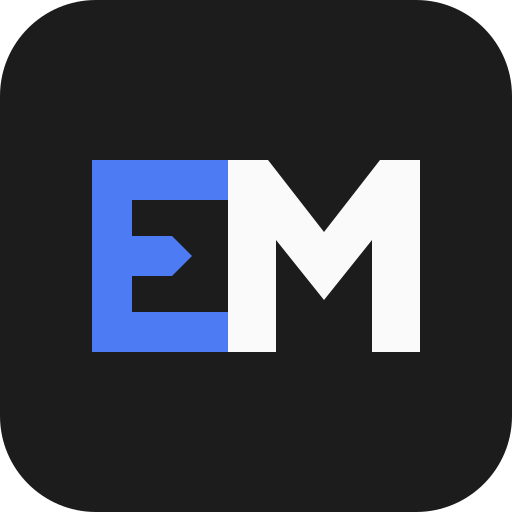
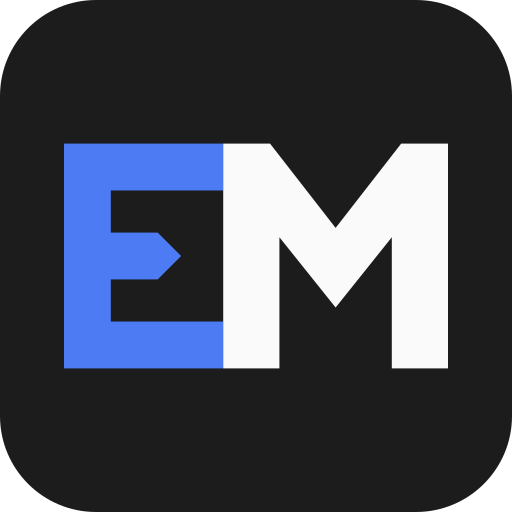
Updates

Changed region(s): [[0.125, 0.2812, 0.75, 0.7188], [0.625, 0.2812, 0.875, 0.7188], [0.5938, 0.5312, 0.625, 0.5625]]

diff --git a/sw.js b/sw.js
@@ -1,1 +1,1 @@
-if(!self.define){let s,l={};const e=(e,i)=>(e=new URL(e+".js",i).href,l[e]||new Promise(l=>{if("document"in self){const s=document.createElement("script");s.src=e,s.onload=l,document.head.appendChild(s)}else s=e,importScripts(e),l()}).then(()=>{let s=l[e];if(!s)throw new Error(`Module ${e} didn’t register its module`);return s}));self.define=(i,r)=>{const n=s||("document"in self?document.currentScript.src:"")||location.href;if(l[n])return;let u={};const a=s=>e(s,n),t={module:{uri:n},exports:u,require:a};l[n]=Promise.all(i.map(s=>t[s]||a(s))).then(s=>(r(...s),u))}}define(["./workbox-2fbc6a65"],function(s){"use strict";self.addEventListener("message",s=>{s.data&&"SKIP_WAITING"===s.data.type&&self.skipWaiting()}),s.precacheAndRoute([{url:"welcome-banner.svg",revision:"e8af19e420920785ca49a0bf12828d9c"},{url:"manifest.webmanifest",revision:"ae91c14e9a672d1c1ce731e27318a75d"},{url:"index.html",revision:"fe628d238c3b72b46a86ef1d76868b95"},{url:"icon.svg",revision:"1f7c5761c70ef41ba926eafd933dd263"},{url:"icon-maskable-512.png",revision:"8913e5d5832c7545642b70902ebd36fd"},{url:"icon-512.png",revision:"cf0ef717280282589ce40c45d40b8f30"},{url:"icon-192.png",revision:"9acb9654eef45558c0e6ec9d9a9a011f"},{url:"apple-touch-icon.png",revision:"ac8b49fa416d4f017ebefe40c910c71e"},{url:"assets/z80-Co3PbHdE.js",revision:null},{url:"assets/yacas-CXXgtw0p.js",revision:null},{url:"assets/xquery-BKJx4mf9.js",revision:null},{url:"assets/workbox-window.prod.es5-Bd17z0YL.js",revision:null},{url:"assets/webidl-D5jiJvOU.js",revision:null},{url:"assets/virtual_solid-ssr-entry-client-BmAWYxfp.js",revision:null},{url:"assets/virtual_solid-ssr-entry-client-BiwvVpO6.css",revision:null},{url:"assets/vhdl-kS471soi.js",revision:null},{url:"assets/verilog-CjI9Y6RI.js",revision:null},{url:"assets/velocity-CqftRsjg.js",revision:null},{url:"assets/vbscript-D9f6rSsU.js",revision:null},{url:"assets/vb-BthdM_4N.js",revision:null},{url:"assets/turtle-Cx3rYX2g.js",revision:null},{url:"assets/ttcn-cfg-2b4Gb5sE.js",revision:null},{url:"assets/ttcn-PPSTk1ow.js",revision:null},{url:"assets/troff-C2dAgh7P.js",revision:null},{url:"assets/toml-BPTmHmyx.js",revision:null},{url:"assets/tiki-AK6FwT8q.js",revision:null},{url:"assets/tiddlywiki-VlUiK86J.js",revision:null},{url:"assets/textile-C4jVoHG1.js",revision:null},{url:"assets/tcl-BGfruO1u.js",revision:null},{url:"assets/swift-DKB6_1j6.js",revision:null},{url:"assets/stylus-BOVgKnng.js",revision:null},{url:"assets/stex-DNzd62Q_.js",revision:null},{url:"assets/sql-DuQMFDvy.js",revision:null},{url:"assets/spreadsheet-CTIncYxj.js",revision:null},{url:"assets/sparql-Dz-mlCAC.js",revision:null},{url:"assets/solr-B78wSQJQ.js",revision:null},{url:"assets/smalltalk-BLp5-jwC.js",revision:null},{url:"assets/simple-mode-DXiLM1-G.js",revision:null},{url:"assets/sieve-tLWDfEkZ.js",revision:null},{url:"assets/shell-DwuoZtxw.js",revision:null},{url:"assets/scheme-D9qYN0V5.js",revision:null},{url:"assets/sas-C2OyD2Y6.js",revision:null},{url:"assets/ruby-ChfNwlCY.js",revision:null},{url:"assets/rpm-gpDK5sbt.js",revision:null},{url:"assets/r-CxDmU1I4.js",revision:null},{url:"assets/q-B9NhS7L_.js",revision:null},{url:"assets/python-B_1Jd8HM.js",revision:null},{url:"assets/puppet-BZyAS7I4.js",revision:null},{url:"assets/pug-3K-JMW4g.js",revision:null},{url:"assets/protobuf-D1ij_kNL.js",revision:null},{url:"assets/properties-C357ku5U.js",revision:null},{url:"assets/powershell-BcIto6Sf.js",revision:null},{url:"assets/pig-AF4Hwhju.js",revision:null},{url:"assets/perl-BkSkiI9m.js",revision:null},{url:"assets/pascal-Dp_KdFgX.js",revision:null},{url:"assets/oz-BwTct_5T.js",revision:null},{url:"assets/octave-D2Q8cUp1.js",revision:null},{url:"assets/ntriples-B9h1VB_g.js",revision:null},{url:"assets/nsis-viPvXFiq.js",revision:null},{url:"assets/nginx-8H7HVH4w.js",revision:null},{url:"assets/mumps-BSzj6Xyz.js",revision:null},{url:"assets/mscgen-qgSLujhx.js",revision:null},{url:"assets/modelica-CqHI_q-D.js",revision:null},{url:"assets/mllike-B45xgp2S.js",revision:null},{url:"assets/mirc-C9zpzAZU.js",revision:null},{url:"assets/mbox-BEMVcqjs.js",revision:null},{url:"assets/mathematica-u8YMmbU0.js",revision:null},{url:"assets/lua-DPCEkfD_.js",revision:null},{url:"assets/livescript-BXxG0Yva.js",revision:null},{url:"assets/julia-CQfgDRfP.js",revision:null},{url:"assets/javascript-Bu8mWwtz.js",revision:null},{url:"assets/idl-BUZw3wgd.js",revision:null},{url:"assets/http-CLVgA2GD.js",revision:null},{url:"assets/haxe-DjVOVvNP.js",revision:null},{url:"assets/haskell-BRsoo5mP.js",revision:null},{url:"assets/groovy-CUpZ7dEl.js",revision:null},{url:"assets/gherkin-oBAE_ms0.js",revision:null},{url:"assets/gas-BHEdbvp9.js",revision:null},{url:"assets/fortran-Bt6PBEDR.js",revision:null},{url:"assets/forth-D6RzAl64.js",revision:null},{url:"assets/fcl-ClOhbFR7.js",revision:null},{url:"assets/factor-LKH5gN8L.js",revision:null},{url:"assets/erlang-BV0c4Hdn.js",revision:null},{url:"assets/elm-Cshzl8qu.js",revision:null},{url:"assets/eiffel-BEjRio4Q.js",revision:null},{url:"assets/ecl-BVIeWmwY.js",revision:null},{url:"assets/ebnf-D4c0_ac3.js",revision:null},{url:"assets/dylan-BCDoL_-p.js",revision:null},{url:"assets/dtd-DTF72YNO.js",revision:null},{url:"assets/dockerfile-DJkHQgkl.js",revision:null},{url:"assets/dist-zKLIkN7d.js",revision:null},{url:"assets/dist-qaT8ltmQ.js",revision:null},{url:"assets/dist-_yzJIzyp.js",revision:null},{url:"assets/dist-ZPdj95JP.js",revision:null},{url:"assets/dist-DzGbq54L.js",revision:null},{url:"assets/dist-DmC6qqHp.js",revision:null},{url:"assets/dist-DRiSZTbN.js",revision:null},{url:"assets/dist-D2xgha65.js",revision:null},{url:"assets/dist-CQ_FFQ__.js",revision:null},{url:"assets/dist-C7F0Hlmq.js",revision:null},{url:"assets/dist-C2hHbbbk.js",revision:null},{url:"assets/dist-BwOyilns.js",revision:null},{url:"assets/dist-Bi7bU9sV.js",revision:null},{url:"assets/dist-BSJOcAtr.js",revision:null},{url:"assets/dist-BI58-Qvh.js",revision:null},{url:"assets/dist-BDGBjP3P.js",revision:null},{url:"assets/dist-B7GufSPF.js",revision:null},{url:"assets/diff-ChtP43wD.js",revision:null},{url:"assets/d-DWkQyNnU.js",revision:null},{url:"assets/cypher-p9eYesGn.js",revision:null},{url:"assets/css-CnaYoQib.js",revision:null},{url:"assets/crystal-Bsdphhtm.js",revision:null},{url:"assets/commonlisp-DgAKBe0r.js",revision:null},{url:"assets/coffeescript-De_zI4J0.js",revision:null},{url:"assets/cobol-DHLQUbN7.js",revision:null},{url:"assets/cmake-84nbDH0I.js",revision:null},{url:"assets/clojure-BflJGmDX.js",revision:null},{url:"assets/clike-D_6L3tnO.js",revision:null},{url:"assets/brainfuck-D5EjA2JK.js",revision:null},{url:"assets/asterisk-BEn0Cwpx.js",revision:null},{url:"assets/asn1-DCl_8MCW.js",revision:null},{url:"assets/asciiarmor-C_eisQCp.js",revision:null},{url:"assets/apl-gfMMiTNf.js",revision:null},{url:"assets/KaTeX_Typewriter-Regular-CO6r4hn1.woff2",revision:null},{url:"assets/KaTeX_Size4-Regular-Dl5lxZxV.woff2",revision:null},{url:"assets/KaTeX_Size3-Regular-gV2CO0n9.woff2",revision:null},{url:"assets/KaTeX_Size2-Regular-Dy4dx90m.woff2",revision:null},{url:"assets/KaTeX_Size1-Regular-mCD8mA8B.woff2",revision:null},{url:"assets/KaTeX_Script-Regular-D3wIWfF6.woff2",revision:null},{url:"assets/KaTeX_SansSerif-Regular-DDBCnlJ7.woff2",revision:null},{url:"assets/KaTeX_SansSerif-Italic-C3H0VqGB.woff2",revision:null},{url:"assets/KaTeX_SansSerif-Bold-D1sUS0GD.woff2",revision:null},{url:"assets/KaTeX_Math-Italic-t53AETM-.woff2",revision:null},{url:"assets/KaTeX_Math-BoldItalic-CZnvNsCZ.woff2",revision:null},{url:"assets/KaTeX_Main-Regular-B22Nviop.woff2",revision:null},{url:"assets/KaTeX_Main-Italic-NWA7e6Wa.woff2",revision:null},{url:"assets/KaTeX_Main-BoldItalic-DxDJ3AOS.woff2",revision:null},{url:"assets/KaTeX_Main-Bold-Cx986IdX.woff2",revision:null},{url:"assets/KaTeX_Fraktur-Regular-CTYiF6lA.woff2",revision:null},{url:"assets/KaTeX_Fraktur-Bold-CL6g_b3V.woff2",revision:null},{url:"assets/KaTeX_Caligraphic-Regular-Di6jR-x-.woff2",revision:null},{url:"assets/KaTeX_Caligraphic-Bold-Dq_IR9rO.woff2",revision:null},{url:"assets/KaTeX_AMS-Regular-BQhdFMY1.woff2",revision:null},{url:"icon-192.png",revision:"9acb9654eef45558c0e6ec9d9a9a011f"},{url:"icon-512.png",revision:"cf0ef717280282589ce40c45d40b8f30"},{url:"icon-maskable-512.png",revision:"8913e5d5832c7545642b70902ebd36fd"},{url:"icon.svg",revision:"1f7c5761c70ef41ba926eafd933dd263"},{url:"manifest.webmanifest",revision:"ae91c14e9a672d1c1ce731e27318a75d"}],{}),s.cleanupOutdatedCaches(),s.registerRoute(new s.NavigationRoute(s.createHandlerBoundToURL("/easy-marko/index.html")))});
+if(!self.define){let s,l={};const e=(e,i)=>(e=new URL(e+".js",i).href,l[e]||new Promise(l=>{if("document"in self){const s=document.createElement("script");s.src=e,s.onload=l,document.head.appendChild(s)}else s=e,importScripts(e),l()}).then(()=>{let s=l[e];if(!s)throw new Error(`Module ${e} didn’t register its module`);return s}));self.define=(i,r)=>{const n=s||("document"in self?document.currentScript.src:"")||location.href;if(l[n])return;let u={};const a=s=>e(s,n),t={module:{uri:n},exports:u,require:a};l[n]=Promise.all(i.map(s=>t[s]||a(s))).then(s=>(r(...s),u))}}define(["./workbox-2fbc6a65"],function(s){"use strict";self.addEventListener("message",s=>{s.data&&"SKIP_WAITING"===s.data.type&&self.skipWaiting()}),s.precacheAndRoute([{url:"welcome-banner.svg",revision:"e8af19e420920785ca49a0bf12828d9c"},{url:"manifest.webmanifest",revision:"ae91c14e9a672d1c1ce731e27318a75d"},{url:"index.html",revision:"fe628d238c3b72b46a86ef1d76868b95"},{url:"icon.svg",revision:"245e111b612760a4d3f681fee80ccb2b"},{url:"icon-maskable-512.png",revision:"8a75dd544a61b8aae74295440fb50bdb"},{url:"icon-512.png",revision:"0089cf06c53c4fd3800fe0cbfb1391e1"},{url:"icon-192.png",revision:"107cd7d5ac138d6cfe01b55a39b939fc"},{url:"apple-touch-icon.png",revision:"cea863ce8b9105865127ff91b2e65fe4"},{url:"assets/z80-Co3PbHdE.js",revision:null},{url:"assets/yacas-CXXgtw0p.js",revision:null},{url:"assets/xquery-BKJx4mf9.js",revision:null},{url:"assets/workbox-window.prod.es5-Bd17z0YL.js",revision:null},{url:"assets/webidl-D5jiJvOU.js",revision:null},{url:"assets/virtual_solid-ssr-entry-client-BmAWYxfp.js",revision:null},{url:"assets/virtual_solid-ssr-entry-client-BiwvVpO6.css",revision:null},{url:"assets/vhdl-kS471soi.js",revision:null},{url:"assets/verilog-CjI9Y6RI.js",revision:null},{url:"assets/velocity-CqftRsjg.js",revision:null},{url:"assets/vbscript-D9f6rSsU.js",revision:null},{url:"assets/vb-BthdM_4N.js",revision:null},{url:"assets/turtle-Cx3rYX2g.js",revision:null},{url:"assets/ttcn-cfg-2b4Gb5sE.js",revision:null},{url:"assets/ttcn-PPSTk1ow.js",revision:null},{url:"assets/troff-C2dAgh7P.js",revision:null},{url:"assets/toml-BPTmHmyx.js",revision:null},{url:"assets/tiki-AK6FwT8q.js",revision:null},{url:"assets/tiddlywiki-VlUiK86J.js",revision:null},{url:"assets/textile-C4jVoHG1.js",revision:null},{url:"assets/tcl-BGfruO1u.js",revision:null},{url:"assets/swift-DKB6_1j6.js",revision:null},{url:"assets/stylus-BOVgKnng.js",revision:null},{url:"assets/stex-DNzd62Q_.js",revision:null},{url:"assets/sql-DuQMFDvy.js",revision:null},{url:"assets/spreadsheet-CTIncYxj.js",revision:null},{url:"assets/sparql-Dz-mlCAC.js",revision:null},{url:"assets/solr-B78wSQJQ.js",revision:null},{url:"assets/smalltalk-BLp5-jwC.js",revision:null},{url:"assets/simple-mode-DXiLM1-G.js",revision:null},{url:"assets/sieve-tLWDfEkZ.js",revision:null},{url:"assets/shell-DwuoZtxw.js",revision:null},{url:"assets/scheme-D9qYN0V5.js",revision:null},{url:"assets/sas-C2OyD2Y6.js",revision:null},{url:"assets/ruby-ChfNwlCY.js",revision:null},{url:"assets/rpm-gpDK5sbt.js",revision:null},{url:"assets/r-CxDmU1I4.js",revision:null},{url:"assets/q-B9NhS7L_.js",revision:null},{url:"assets/python-B_1Jd8HM.js",revision:null},{url:"assets/puppet-BZyAS7I4.js",revision:null},{url:"assets/pug-3K-JMW4g.js",revision:null},{url:"assets/protobuf-D1ij_kNL.js",revision:null},{url:"assets/properties-C357ku5U.js",revision:null},{url:"assets/powershell-BcIto6Sf.js",revision:null},{url:"assets/pig-AF4Hwhju.js",revision:null},{url:"assets/perl-BkSkiI9m.js",revision:null},{url:"assets/pascal-Dp_KdFgX.js",revision:null},{url:"assets/oz-BwTct_5T.js",revision:null},{url:"assets/octave-D2Q8cUp1.js",revision:null},{url:"assets/ntriples-B9h1VB_g.js",revision:null},{url:"assets/nsis-viPvXFiq.js",revision:null},{url:"assets/nginx-8H7HVH4w.js",revision:null},{url:"assets/mumps-BSzj6Xyz.js",revision:null},{url:"assets/mscgen-qgSLujhx.js",revision:null},{url:"assets/modelica-CqHI_q-D.js",revision:null},{url:"assets/mllike-B45xgp2S.js",revision:null},{url:"assets/mirc-C9zpzAZU.js",revision:null},{url:"assets/mbox-BEMVcqjs.js",revision:null},{url:"assets/mathematica-u8YMmbU0.js",revision:null},{url:"assets/lua-DPCEkfD_.js",revision:null},{url:"assets/livescript-BXxG0Yva.js",revision:null},{url:"assets/julia-CQfgDRfP.js",revision:null},{url:"assets/javascript-Bu8mWwtz.js",revision:null},{url:"assets/idl-BUZw3wgd.js",revision:null},{url:"assets/http-CLVgA2GD.js",revision:null},{url:"assets/haxe-DjVOVvNP.js",revision:null},{url:"assets/haskell-BRsoo5mP.js",revision:null},{url:"assets/groovy-CUpZ7dEl.js",revision:null},{url:"assets/gherkin-oBAE_ms0.js",revision:null},{url:"assets/gas-BHEdbvp9.js",revision:null},{url:"assets/fortran-Bt6PBEDR.js",revision:null},{url:"assets/forth-D6RzAl64.js",revision:null},{url:"assets/fcl-ClOhbFR7.js",revision:null},{url:"assets/factor-LKH5gN8L.js",revision:null},{url:"assets/erlang-BV0c4Hdn.js",revision:null},{url:"assets/elm-Cshzl8qu.js",revision:null},{url:"assets/eiffel-BEjRio4Q.js",revision:null},{url:"assets/ecl-BVIeWmwY.js",revision:null},{url:"assets/ebnf-D4c0_ac3.js",revision:null},{url:"assets/dylan-BCDoL_-p.js",revision:null},{url:"assets/dtd-DTF72YNO.js",revision:null},{url:"assets/dockerfile-DJkHQgkl.js",revision:null},{url:"assets/dist-zKLIkN7d.js",revision:null},{url:"assets/dist-qaT8ltmQ.js",revision:null},{url:"assets/dist-_yzJIzyp.js",revision:null},{url:"assets/dist-ZPdj95JP.js",revision:null},{url:"assets/dist-DzGbq54L.js",revision:null},{url:"assets/dist-DmC6qqHp.js",revision:null},{url:"assets/dist-DRiSZTbN.js",revision:null},{url:"assets/dist-D2xgha65.js",revision:null},{url:"assets/dist-CQ_FFQ__.js",revision:null},{url:"assets/dist-C7F0Hlmq.js",revision:null},{url:"assets/dist-C2hHbbbk.js",revision:null},{url:"assets/dist-BwOyilns.js",revision:null},{url:"assets/dist-Bi7bU9sV.js",revision:null},{url:"assets/dist-BSJOcAtr.js",revision:null},{url:"assets/dist-BI58-Qvh.js",revision:null},{url:"assets/dist-BDGBjP3P.js",revision:null},{url:"assets/dist-B7GufSPF.js",revision:null},{url:"assets/diff-ChtP43wD.js",revision:null},{url:"assets/d-DWkQyNnU.js",revision:null},{url:"assets/cypher-p9eYesGn.js",revision:null},{url:"assets/css-CnaYoQib.js",revision:null},{url:"assets/crystal-Bsdphhtm.js",revision:null},{url:"assets/commonlisp-DgAKBe0r.js",revision:null},{url:"assets/coffeescript-De_zI4J0.js",revision:null},{url:"assets/cobol-DHLQUbN7.js",revision:null},{url:"assets/cmake-84nbDH0I.js",revision:null},{url:"assets/clojure-BflJGmDX.js",revision:null},{url:"assets/clike-D_6L3tnO.js",revision:null},{url:"assets/brainfuck-D5EjA2JK.js",revision:null},{url:"assets/asterisk-BEn0Cwpx.js",revision:null},{url:"assets/asn1-DCl_8MCW.js",revision:null},{url:"assets/asciiarmor-C_eisQCp.js",revision:null},{url:"assets/apl-gfMMiTNf.js",revision:null},{url:"assets/KaTeX_Typewriter-Regular-CO6r4hn1.woff2",revision:null},{url:"assets/KaTeX_Size4-Regular-Dl5lxZxV.woff2",revision:null},{url:"assets/KaTeX_Size3-Regular-gV2CO0n9.woff2",revision:null},{url:"assets/KaTeX_Size2-Regular-Dy4dx90m.woff2",revision:null},{url:"assets/KaTeX_Size1-Regular-mCD8mA8B.woff2",revision:null},{url:"assets/KaTeX_Script-Regular-D3wIWfF6.woff2",revision:null},{url:"assets/KaTeX_SansSerif-Regular-DDBCnlJ7.woff2",revision:null},{url:"assets/KaTeX_SansSerif-Italic-C3H0VqGB.woff2",revision:null},{url:"assets/KaTeX_SansSerif-Bold-D1sUS0GD.woff2",revision:null},{url:"assets/KaTeX_Math-Italic-t53AETM-.woff2",revision:null},{url:"assets/KaTeX_Math-BoldItalic-CZnvNsCZ.woff2",revision:null},{url:"assets/KaTeX_Main-Regular-B22Nviop.woff2",revision:null},{url:"assets/KaTeX_Main-Italic-NWA7e6Wa.woff2",revision:null},{url:"assets/KaTeX_Main-BoldItalic-DxDJ3AOS.woff2",revision:null},{url:"assets/KaTeX_Main-Bold-Cx986IdX.woff2",revision:null},{url:"assets/KaTeX_Fraktur-Regular-CTYiF6lA.woff2",revision:null},{url:"assets/KaTeX_Fraktur-Bold-CL6g_b3V.woff2",revision:null},{url:"assets/KaTeX_Caligraphic-Regular-Di6jR-x-.woff2",revision:null},{url:"assets/KaTeX_Caligraphic-Bold-Dq_IR9rO.woff2",revision:null},{url:"assets/KaTeX_AMS-Regular-BQhdFMY1.woff2",revision:null},{url:"icon-192.png",revision:"107cd7d5ac138d6cfe01b55a39b939fc"},{url:"icon-512.png",revision:"0089cf06c53c4fd3800fe0cbfb1391e1"},{url:"icon-maskable-512.png",revision:"8a75dd544a61b8aae74295440fb50bdb"},{url:"icon.svg",revision:"245e111b612760a4d3f681fee80ccb2b"},{url:"manifest.webmanifest",revision:"ae91c14e9a672d1c1ce731e27318a75d"}],{}),s.cleanupOutdatedCaches(),s.registerRoute(new s.NavigationRoute(s.createHandlerBoundToURL("/easy-marko/index.html")))});
